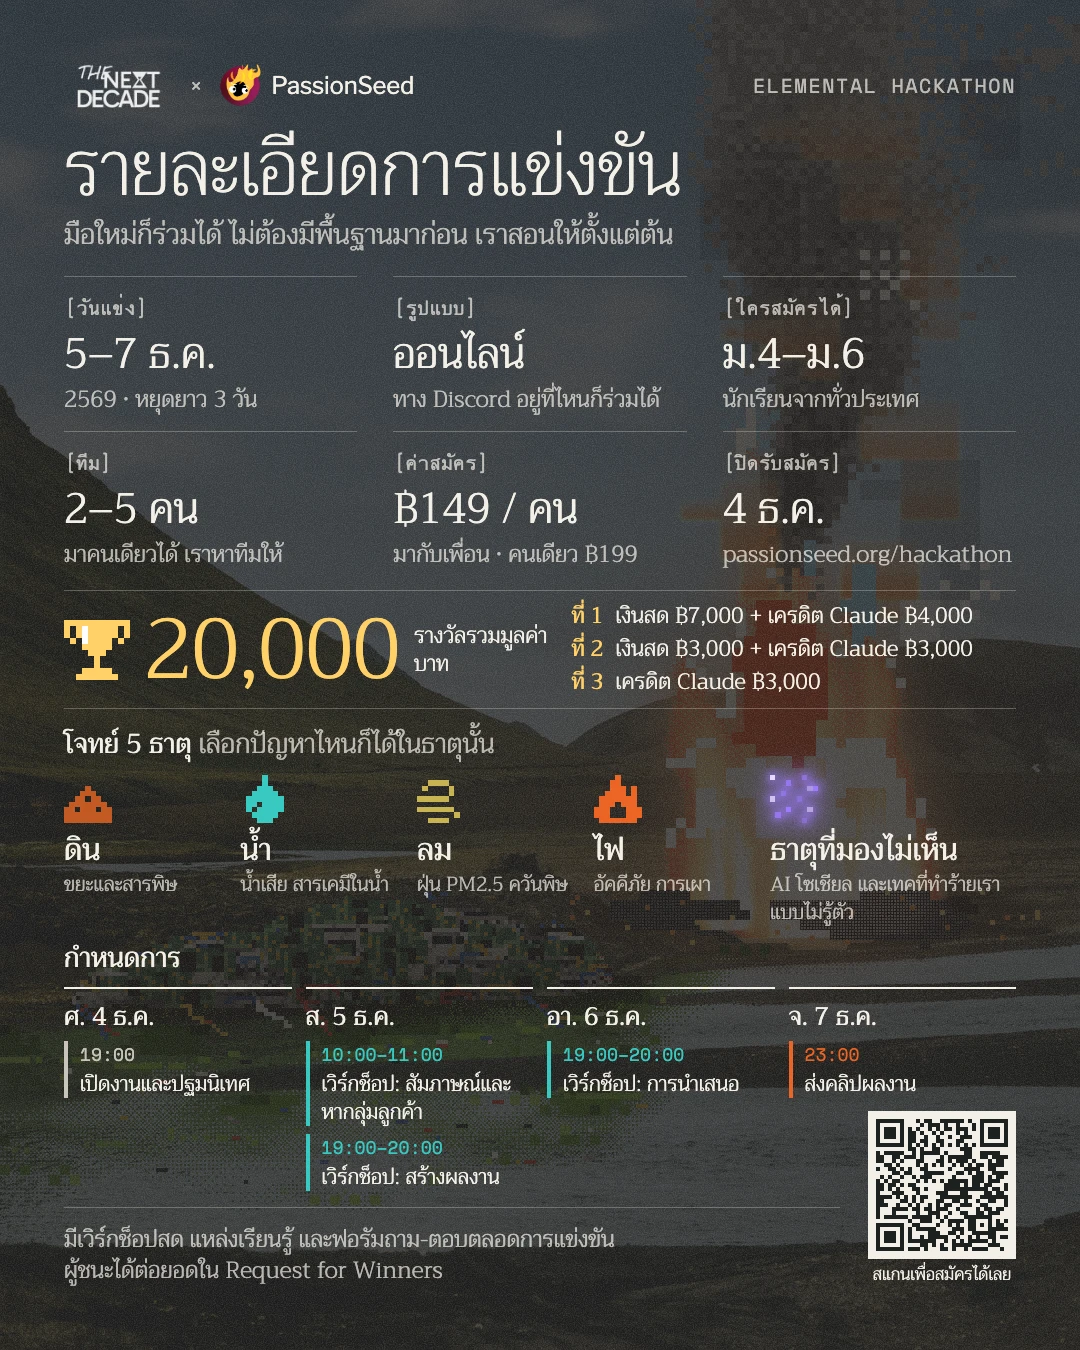
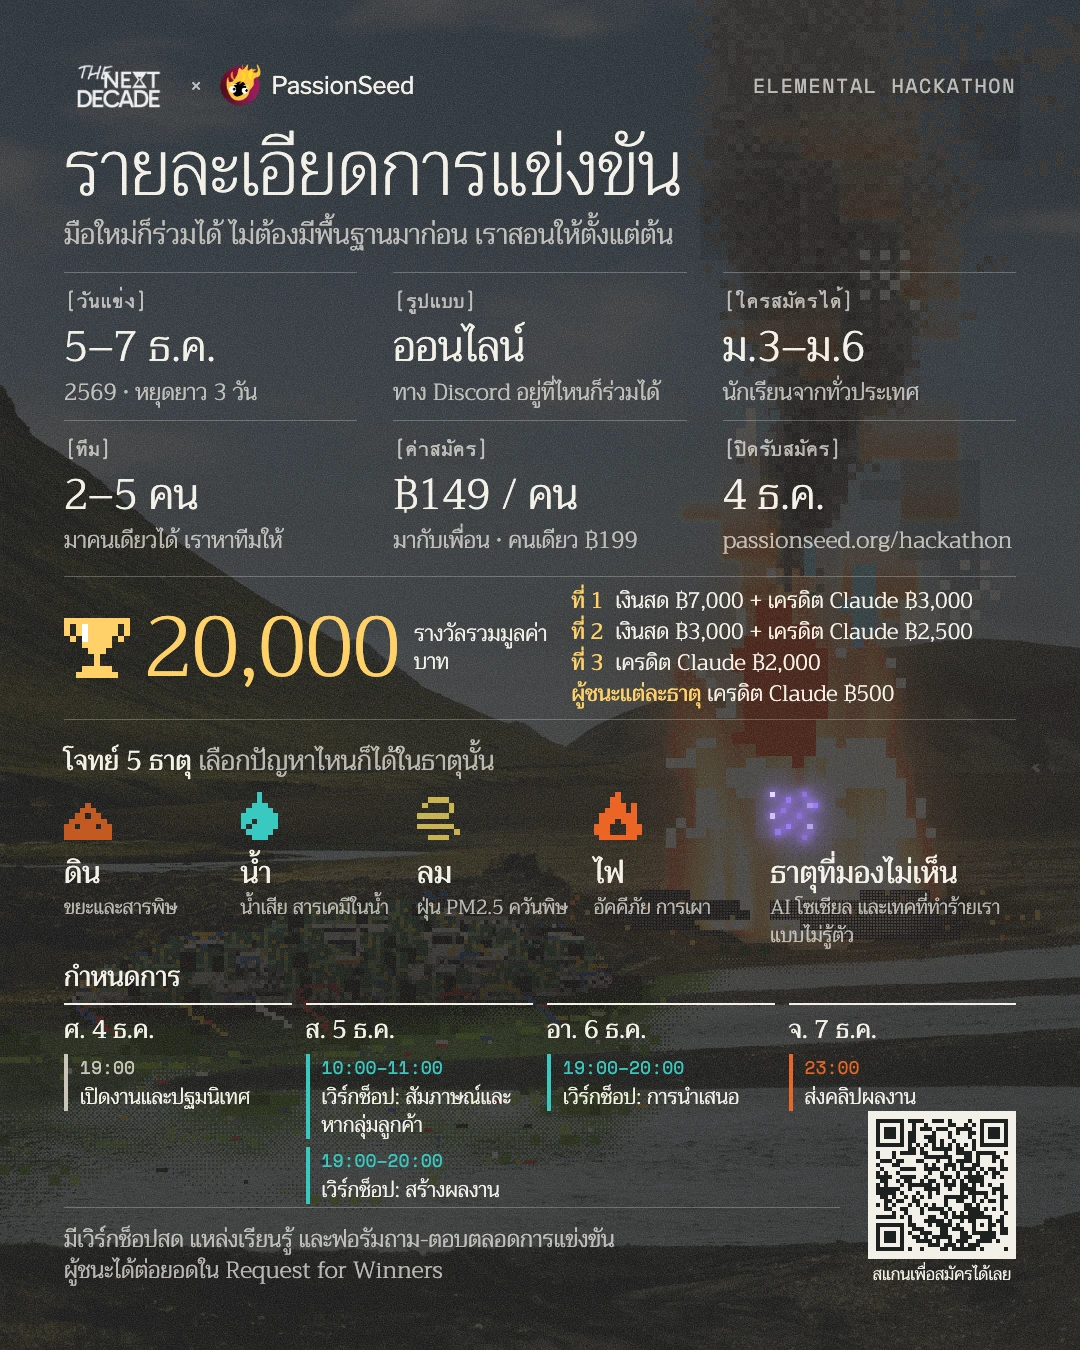
Elemental: ม.3–ม.6 can join, new prize split, and both on the hackathon page (#382)
* Elemental: M.3 to M.6 can join, and the poster says so

Angpao, 2026-11-24: the key poster's facts row gets a tag with a
graduation cap, ม.3–ม.6 เท่านั้น, and M.3 is added to who can join
(it was M.4 to M.6). Slide 2, the sponsor deck and the CSII deck follow.
The exported sheets are re-rendered; their QR code now holds the
permanent link, /hackathon/elemental?src=poster.

* Elemental prizes: less Claude credit for 1st to 3rd, ฿500 for each element's winner

Angpao, 2026-11-24: the Claude credit is 3,000 / 2,500 / 2,000, and the
winner of each track gets 500 of Claude credit. A track is read as one of
the five elements, so the total stays 20,000. Slide 2 and the CSII deck
follow. Slide 2 prints the short link again: the permanent one widened its
column and pushed the schedule under the QR code.

* Slide 2: the element prize sits under ที่ 3

Angpao, 2026-11-24: "put it under ที่ 3 make space for it", and a track is
one of the five elements. The prize rows and the gaps around them are a
few pixels tighter to fit the fourth row.

* Slide 2: the elements row sits 10px lower, away from its heading

Angpao, 2026-11-24: "move this element lower abit". The schedule gives
back 6px so the foot keeps its gap.

* Slide 2: the elements' heading moves down with its row

Angpao, 2026-11-24: "not just element but also the text". The whole
block sits 10px below the prize band's line; heading and row keep their
old gap.

* Slide 2: the water icon lines up with its name
[…]

diff --git a/components/hackathon/poster/elemental/info/ElementalInfoPoster.tsx b/components/hackathon/poster/elemental/info/ElementalInfoPoster.tsx
@@ -36,7 +36,8 @@ const YEAR_TH = Number(ELEMENTAL.startDate.slice(0, 4)) + 543;
 /** 9x9 pixel shapes, one per element. */
 const SHAPES = {
   earth: [".........", ".........", "....#....", "...###...", "..##.##..", ".#######.", "##.###.##", "#########", "#########"],
-  water: ["....#....", "....#....", "...###...", "..#####..", ".#######.", ".##.####.", ".#.#####.", "..#####..", "...###..."],
+  // One column left of centre: flush with the left edge like the others, so it lines up with its name (Angpao, 2026-11-24: "why water position look off").
+  water: ["...#.....", "...#.....", "..###....", ".#####...", "#######..", "##.####..", "#.#####..", ".#####...", "..###...."],
   air: [".........", "..####...", ".#....#..", "......#..", "######...", ".........", "#######..", ".......#.", "..####..."],
   fire: ["....#....", "...##....", "...###.#.", "..####.#.", ".#######.", ".###.###.", "###...###", "###...###", ".#######."],
   aether: ["#.....#..", "...#.....", ".......##", "..#......", "#....#...", ".........", "...#...#.", ".#.......", "......#.."],
@@ -114,10 +115,17 @@ function Tag({ children }: { children: ReactNode }) {
   return <p style={{ margin: 0, fontFamily: EL_FONT.mono, fontSize: 20, color: EL.creamSoft }}>[{children}]</p>;
 }
 
+/**
+ * The link as printed on the slide: the short one, which redirects to the
+ * permanent link. The permanent link is too long for its column: it widens
+ * the column, the other facts wrap, and the schedule runs under the QR code.
+ */
+const SHORT_URL = ELEMENTAL.url.replace(/\/elemental$/, "");
+
 /** One fact: a tag, the big value, one quiet line under it. */
 function Fact({ tag, big, below }: { tag: string; big: ReactNode; below: ReactNode }) {
   return (
-    <div style={{ borderTop: `1px solid rgba(243,239,230,0.28)`, paddingTop: 16 }}>
+    <div style={{ borderTop: `1px solid rgba(243,239,230,0.28)`, paddingTop: 13 }}>
       <Tag>{tag}</Tag>
       <p style={{ margin: "6px 0 0", fontFamily: EL_FONT.display, fontWeight: 300, fontSize: 42, lineHeight: "50px" }}>{big}</p>
       <p style={{ margin: "4px 0 0", fontFamily: EL_FONT.display, fontWeight: 300, fontSize: 23, lineHeight: "32px", color: EL.creamSoft }}>{below}</p>
@@ -170,13 +178,13 @@ export function ElementalInfoPoster({ id = "elemental-info" }: { id?: string }) 
         </p>
 
         {/* Facts, 3 x 2 */}
-        <div style={{ marginTop: 22, display: "grid", gridTemplateColumns: "repeat(3, 1fr)", columnGap: 36, rowGap: 16 }}>
+        <div style={{ marginTop: 18, display: "grid", gridTemplateColumns: "repeat(3, 1fr)", columnGap: 36, rowGap: 12 }}>
           <Fact tag="วันแข่ง" big={thaiDayRange()} below={`${YEAR_TH} · หยุดยาว ${ELEMENTAL.days} วัน`} />
           <Fact tag="รูปแบบ" big="ออนไลน์" below={`${ELEMENTAL.venueTh.replace("ออนไลน์", "").trim()} อยู่ที่ไหนก็ร่วมได้`} />
           <Fact tag="ใครสมัครได้" big={ELEMENTAL.gradesTh} below="นักเรียนจากทั่วประเทศ" />
           <Fact tag="ทีม" big={`${ELEMENTAL.teamMin}–${ELEMENTAL.teamMax} คน`} below="มาคนเดียวได้ เราหาทีมให้" />
           <Fact tag="ค่าสมัคร" big={`฿${ELEMENTAL.groupPriceBaht} / คน`} below={`มากับเพื่อน · คนเดียว ฿${ELEMENTAL.priceBaht}`} />
-          <Fact tag="ปิดรับสมัคร" big={formatThaiDate(ELEMENTAL.registrationClosesOn, false)} below={ELEMENTAL.url} />
+          <Fact tag="ปิดรับสมัคร" big={formatThaiDate(ELEMENTAL.registrationClosesOn, false)} below={SHORT_URL} />
         </div>
 
         {/* The prize, as on slide 1 (trophy, the number in yellow), then who gets what. */}
@@ -190,18 +198,22 @@ export function ElementalInfoPoster({ id = "elemental-info" }: { id?: string }) 
               บาท
             </span>
           </div>
-          <div style={{ flex: 1, display: "grid", gridTemplateColumns: "auto 1fr", columnGap: 12, rowGap: 2, fontFamily: EL_FONT.display, fontWeight: 300, fontSize: 22, lineHeight: "31px" }}>
+          <div style={{ flex: 1, display: "grid", gridTemplateColumns: "auto 1fr", columnGap: 12, rowGap: 2, fontFamily: EL_FONT.display, fontWeight: 300, fontSize: 22, lineHeight: "29px" }}>
             {ELEMENTAL.prizes.map((p) => (
               <Fragment key={p.place}>
                 <span style={{ fontWeight: 400, color: HIGHLIGHT, whiteSpace: "nowrap" }}>ที่ {p.place}</span>
                 <span style={{ whiteSpace: "nowrap" }}>{[p.cashBaht ? `เงินสด ${baht(p.cashBaht)}` : null, `เครดิต Claude ${baht(p.creditBaht)}`].filter(Boolean).join(" + ")}</span>
               </Fragment>
             ))}
+            {/* The winner of each element, under "ที่ 3" (Angpao, 2026-11-24: "winner in each track get 500 bath claude credit", a track being an element; "put it under ที่ 3 make space for it"). */}
+            <span style={{ gridColumn: "1 / -1", whiteSpace: "nowrap" }}>
+              <span style={{ fontWeight: 400, color: HIGHLIGHT }}>ผู้ชนะแต่ละธาตุ</span> เครดิต Claude {baht(ELEMENTAL.elementPrizeCreditBaht)}
+            </span>
           </div>
         </div>
 
-        {/* The five elements */}
-        <div style={{ marginTop: 18 }}>
+        {/* The five elements. The whole block, heading and all, sits 10px lower than at first (Angpao, 2026-11-24: "move this element lower abit", "not just element but also the text"). */}
+        <div style={{ marginTop: 24 }}>
           <Head>
             โจทย์ 5 ธาตุ <span style={{ fontWeight: 300, color: EL.creamSoft }}>เลือกปัญหาไหนก็ได้ในธาตุนั้น</span>
           </Head>
@@ -209,7 +221,8 @@ export function ElementalInfoPoster({ id = "elemental-info" }: { id?: string }) 
             {ELEMENTS.map(({ key, color, line }) => (
               <div key={key}>
                 {key === "aether" ? <AetherPixels rows={SHAPES[key]} size={48} id={`${id}-aether`} /> : <Pixels rows={SHAPES[key]} color={color} size={48} />}
-                <p style={{ margin: "8px 0 0", fontFamily: EL_FONT.display, fontWeight: 400, fontSize: 30, lineHeight: "38px", whiteSpace: "nowrap" }}>{el(key)?.th}</p>
+                {/* The name sits 14px under its icon, 6px more than at first (Angpao, 2026-11-24: "move the text lower abit"). */}
+                <p style={{ margin: "14px 0 0", fontFamily: EL_FONT.display, fontWeight: 400, fontSize: 30, lineHeight: "38px", whiteSpace: "nowrap" }}>{el(key)?.th}</p>
                 <p style={{ margin: "2px 0 0", fontFamily: EL_FONT.display, fontWeight: 300, fontSize: 20, lineHeight: "28px", color: EL.creamSoft }}>{line}</p>
               </div>
             ))}
@@ -217,11 +230,11 @@ export function ElementalInfoPoster({ id = "elemental-info" }: { id?: string }) 
         </div>
 
         {/* Schedule */}
-        <div style={{ marginTop: 14 }}>
+        <div style={{ marginTop: 10 }}>
           <Head>กำหนดการ</Head>
-          <div style={{ marginTop: 12, display: "grid", gridTemplateColumns: `repeat(${days.length}, 1fr)`, columnGap: 14 }}>
+          <div style={{ marginTop: 9, display: "grid", gridTemplateColumns: `repeat(${days.length}, 1fr)`, columnGap: 14 }}>
             {days.map((d) => (
-              <div key={d} style={{ borderTop: `2px solid ${EL.cream}`, paddingTop: 12 }}>
+              <div key={d} style={{ borderTop: `2px solid ${EL.cream}`, paddingTop: 9 }}>
                 <p style={{ margin: 0, fontFamily: EL_FONT.display, fontWeight: 400, fontSize: 25, lineHeight: "32px" }}>{formatThaiDate(d)}</p>
                 {ELEMENTAL.schedule
                   .filter((s) => s.date === d)

diff --git a/components/hackathon/poster/elemental/ElementalKeyPoster.tsx b/components/hackathon/poster/elemental/ElementalKeyPoster.tsx
@@ -291,6 +291,8 @@ const ICON = {
   prize: ["#########", "#.#####.#", ".#.###.#.", "...###...", "....#....", "....#....", "..#####..", ".#######.", "........."],
   friends: [".##...##.", "####.####", ".##...##.", ".........", "###...###", "####.####", "####.####", ".........", "........."],
   workshop: ["#########", "#.......#", "#.##....#", "#....##.#", "#.###...#", "#.......#", "#########", "...#.#...", "..#...#.."],
+  /** A graduation cap with its tassel: who the hackathon is for. */
+  school: ["....#....", "...###...", ".#######.", "#########", ".#######.", "#..###...", "#.#...#..", "#..###...", "........."],
 } as const;
 
 /** One fact in the bottom row: an icon and a few words, all the same size. */
@@ -404,6 +406,8 @@ function RegisterQrArt({ cell, fire = false, label = true }: { cell: number; fir
 const LINE = ["งานแข่งหาทางออกให้ธรรมชาติ", "ก่อนธรรมชาติจะให้เราออก"] as const;
 /** A question, then its answer (Angpao, 2026-11-23: "add ? to มือใหม่ไม่เคยแข่ง"). */
 const BEGINNER = ["มือใหม่ไม่เคยแข่ง?", "มี workshop สอน"] as const;
+/** Who it is for, as a tag in the facts row (Angpao, 2026-11-24: "add tag for มัธยมเท่านั้น", then "m3-m6 เท่านั้น"). */
+const WHO = `${ELEMENTAL.gradesTh} เท่านั้น`;
 
 export type BottomDesign = "stack" | "badge" | "number" | "scan" | "table";
 
@@ -593,7 +597,7 @@ function BottomBlock({ design, label = "tag", rule = true, side = "facts", troph
  * trophy, a plain sign-up QR code at the bottom right, and the line under
  * them. The other values are the layouts tried on the way there.
  */
-export function ElementalKeyPoster({ id = "elemental-key", sky = "grey", glyphs = true, bottom = "number", label = "beside", rule = false, qr = "bottom", facts = "top", qrStyle = "art", trophy = "solid", prizeWeight = 200 }: { id?: string; sky?: keyof typeof PLATES; glyphs?: boolean; bottom?: BottomDesign; label?: PrizeLabel; rule?: boolean; qr?: false | "left" | "right" | "bottom"; facts?: "bottom" | "top"; trophy?: TrophyDesign; prizeWeight?: number; qrStyle?: "art" | "plain" | "glass" | "scan" | "fire" }) {
+export function ElementalKeyPoster({ id = "elemental-key", sky = "grey", glyphs = true, bottom = "number", label = "beside", rule = false, qr = "bottom", facts = "top", qrStyle = "art", trophy = "solid", prizeWeight = 200, who = WHO }: { id?: string; who?: string; sky?: keyof typeof PLATES; glyphs?: boolean; bottom?: BottomDesign; label?: PrizeLabel; rule?: boolean; qr?: false | "left" | "right" | "bottom"; facts?: "bottom" | "top"; trophy?: TrophyDesign; prizeWeight?: number; qrStyle?: "art" | "plain" | "glass" | "scan" | "fire" }) {
   return (
     <div id={id} className={`${trirong.variable} relative overflow-hidden`} style={{ width: W, height: H, backgroundColor: "#2a2b26" }}>
       {/* eslint-disable-next-line @next/next/no-img-element */}
@@ -722,6 +726,7 @@ export function ElementalKeyPoster({ id = "elemental-key", sky = "grey", glyphs 
             <Fact icon="online" color={EL.ink}>ออนไลน์</Fact>
             <Fact icon="friends" color={EL.ink}>{`มากับเพื่อน ฿${ELEMENTAL.groupPriceBaht} ต่อคน`}</Fact>
             <Fact icon="workshop" color={EL.ink}>{`${BEGINNER[0]} ${BEGINNER[1]}`}</Fact>
+            <Fact icon="school" color={EL.ink}>{who}</Fact>
           </div>
         ) : null}
       </div>

diff --git a/components/hackathon/elemental/csii/CsiiDeck.tsx b/components/hackathon/elemental/csii/CsiiDeck.tsx
@@ -16,7 +16,7 @@ import { Body, DARK, H2, LINE_DARK, LINE_LIGHT, PRINT_CSS, Row, Section, SKY, St
  * Source: passionseed/company-brain on main, hackathon-csii-proposal.md,
  * content confirmed by Big on 2026-11-22, and the decisions behind it in
  * decisions/log.md (PassionSeed pays CSII's extra staff charge for opening
- * BAScii on 5–7 December and provides the food; M.4 to M.6; onsite and online).
+ * BAScii on 5–7 December and provides the food; M.3 to M.6; onsite and online).
  * PassionSeed's past work: the same sources as the sponsor deck. Where the
  * proposal says "to agree with CSII", so does this deck: nothing is filled in
  * that nobody has told us.
@@ -46,12 +46,8 @@ const WHY: [IconName, string, string][] = [
   ["sprout", "Little load, little risk", "PassionSeed covers the staff charge and the food, and runs sign-ups, workshops, judging and prizes. If the room doesn't work out, the event still runs online."],
 ];
 
-/** Prizes (Big, 2026-11-22, in the proposal). Cash and Claude credit, in baht. */
-const PRIZES: [string, number, number][] = [
-  ["1st", 7000, 4000],
-  ["2nd", 3000, 3000],
-  ["3rd", 0, 3000],
-];
+/** Prizes (Big, 2026-11-22, in the proposal; the credit changed by Angpao, 2026-11-24). Cash and Claude credit, in baht. */
+const PRIZES: [string, number, number][] = ELEMENTAL.prizes.map((p): [string, number, number] => [["1st", "2nd", "3rd"][p.place - 1], p.cashBaht, p.creditBaht]);
 const PRIZE_TOP = Math.max(...PRIZES.map(([, c, k]) => c + k));
 const baht = (n: number) => `฿${n.toLocaleString("en-US")}`;
 
@@ -181,7 +177,7 @@ export function CsiiDeck() {
               [
                 ["When", "5–7 Dec 2026", "Long weekend"],
                 ["Where", "BAScii", "+ online on Discord"],
-                ["Who", `350+ students`, "M.4 to M.6"],
+                ["Who", `350+ students`, "M.3 to M.6"],
                 ["Cost to CSII", "฿0", "We pay staff and food"],
               ] as const
             ).map(([label, big, small]) => (
@@ -295,7 +291,7 @@ export function CsiiDeck() {
           <div className="grid grid-cols-2 gap-x-8 gap-y-6">
             <Stat big="350+" label="participants (target)" />
             <Stat big="800" label="joined the 1st edition of The Next Decade (2026)" />
-            <Stat big={`${ELEMENTAL.teamMin}–${ELEMENTAL.teamMax}`} label="people per team, M.4 to M.6, from across Thailand" />
+            <Stat big={`${ELEMENTAL.teamMin}–${ELEMENTAL.teamMax}`} label="people per team, M.3 to M.6, from across Thailand" />
             <Stat big={baht(ELEMENTAL.prizeTotalBaht)} label="in prizes, cash and Claude credit" />
           </div>
           <div style={{ fontFamily: EL_FONT.display }}>
@@ -325,6 +321,9 @@ export function CsiiDeck() {
               </span>
               <span>Total {prizeTotal()} baht</span>
             </div>
+            <p className="m-0 mt-3 text-[14px]" style={{ color: CREAM_SOFT }}>
+              Plus {baht(ELEMENTAL.elementPrizeCreditBaht)} of Claude credit for the winner of each of the five elements.
+            </p>
             <p className="m-0 mt-8 text-[16px] leading-[1.65]" style={{ fontWeight: 300, color: CREAM_SOFT }}>
               Every team hands in a video by Monday 7 December, 23:00, judged on four things: does it work, evidence from real people, understanding of the problem, and the pitch.
             </p>

diff --git a/components/hackathon/elemental/ElementalExperience.tsx b/components/hackathon/elemental/ElementalExperience.tsx
@@ -6,7 +6,7 @@ import Link from "next/link";
 import { motion, useReducedMotion, useTransform } from "framer-motion";
 
 import { BACKGROUND, EL, EL_FONT } from "@/components/hackathon/poster/elemental/brand";
-import { ELEMENTAL } from "@/components/hackathon/poster/elemental/facts";
+import { ELEMENTAL, prizeTotal } from "@/components/hackathon/poster/elemental/facts";
 
 import { BeginnerJourneySection } from "./BeginnerJourneySection";
 import styles from "./elemental-cinema.module.css";
@@ -345,6 +345,47 @@ function ElementalExperienceInner({
             </Link>{" "}
             ทั้งหมด ให้ผลงานที่ดีที่สุดได้ไปต่อจนเป็นธุรกิจจริง
           </p>
+
+          {/*
+            Who can join and the prizes (Angpao, 2026-11-24: "update hackathon
+            info include participant education level and also prize"). The
+            same facts as Instagram slide 2, all from facts.ts.
+          */}
+          <div className="mt-12 grid grid-cols-1 border-y border-[#1d211f]/20 md:grid-cols-[1fr_1.5fr]" id="who-and-prizes">
+            <div className="py-8 md:pr-10">
+              <p className="text-sm" style={{ fontFamily: EL_FONT.mono, color: EL.inkSoft }}>
+                [ใครสมัครได้]
+              </p>
+              <p className="mt-2 text-5xl sm:text-6xl" style={{ fontFamily: EL_FONT.display, fontWeight: 200, lineHeight: 1.05 }}>
+                {ELEMENTAL.gradesTh}
+              </p>
+              <p className="mt-3 text-base" style={{ fontFamily: "var(--font-bai-jamjuree), sans-serif", color: EL.inkSoft }}>
+                นักเรียนจากทั่วประเทศ ทีมละ {ELEMENTAL.teamMin}–{ELEMENTAL.teamMax} คน
+              </p>
+            </div>
+            <div className="border-t border-[#1d211f]/20 py-8 md:border-l md:border-t-0 md:pl-10">
+              <p className="text-sm" style={{ fontFamily: EL_FONT.mono, color: EL.inkSoft }}>
+                [รางวัลรวมมูลค่า {prizeTotal()} บาท]
+              </p>
+              <dl
+                className="mt-3 grid grid-cols-[auto_1fr] gap-x-5 gap-y-2 text-base sm:text-lg"
+                style={{ fontFamily: "var(--font-bai-jamjuree), sans-serif" }}
+              >
+                {ELEMENTAL.prizes.map((p) => (
+                  <div key={p.place} className="contents">
+                    <dt className="font-semibold">ที่ {p.place}</dt>
+                    <dd style={{ color: EL.inkSoft }}>
+                      {[p.cashBaht ? `เงินสด ฿${p.cashBaht.toLocaleString("en-US")}` : null, `เครดิต Claude ฿${p.creditBaht.toLocaleString("en-US")}`]
+                        .filter(Boolean)
+                        .join(" + ")}
+                    </dd>
+                  </div>
+                ))}
+                <dt className="font-semibold">ผู้ชนะแต่ละธาตุ</dt>
+                <dd style={{ color: EL.inkSoft }}>เครดิต Claude ฿{ELEMENTAL.elementPrizeCreditBaht.toLocaleString("en-US")}</dd>
+              </dl>
+            </div>
+          </div>
 
           {/* 3-step editorial list */}
           <ol className="mt-14 grid gap-8 sm:grid-cols-3">

diff --git a/components/hackathon/poster/elemental/facts.ts b/components/hackathon/poster/elemental/facts.ts
@@ -13,9 +13,12 @@ import { formatThaiDate } from "@/lib/content/shift-cohort";
  *   media and the harms of tech we don't notice (Big, 2026-11-21). It
  *   replaces ธาตุที่ 5 and อีเธอร์.
  * - Prize total: told by Angpao, 2026-11-19. The three prizes: Angpao,
- *   2026-11-21 (company-brain numbers.md).
- * - Who can join: M.4 to M.6, from anywhere in Thailand (Big, 2026-11-22;
- *   company-brain decisions/log.md).
+ *   2026-11-21 (company-brain numbers.md). Changed by Angpao, 2026-11-24:
+ *   the Claude credit drops to 3,000 / 2,500 / 2,000, and the winner of
+ *   each track gets 500 of Claude credit. A track is one of the five
+ *   elements (confirmed by Angpao the same day), so the total stays 20,000.
+ * - Who can join: M.3 to M.6, from anywhere in Thailand (Angpao, 2026-11-24;
+ *   it replaces M.4 to M.6, Big, 2026-11-22; company-brain decisions/log.md).
  * - Online, on Discord; groups of up to 5 (Bunyasit, 2026-11-20).
  * - Sign-up closes Fri 4 Dec 2026 (Angpao, 2026-11-23; it replaces Thu 3 Dec
  *   in hackathon-ops registration.md); a group is 2 or more people (Big's
@@ -33,14 +36,19 @@ export const ELEMENTAL = {
   priceBaht: 199,
   groupPriceBaht: 149,
   prizeTotalBaht: 20000,
-  /** The three prizes: cash and Claude credit, in baht. They add up to prizeTotalBaht. */
+  /**
+   * The three prizes: cash and Claude credit, in baht. With the five element
+   * prizes below they add up to prizeTotalBaht.
+   */
   prizes: [
-    { place: 1, cashBaht: 7000, creditBaht: 4000 },
-    { place: 2, cashBaht: 3000, creditBaht: 3000 },
-    { place: 3, cashBaht: 0, creditBaht: 3000 },
+    { place: 1, cashBaht: 7000, creditBaht: 3000 },
+    { place: 2, cashBaht: 3000, creditBaht: 2500 },
+    { place: 3, cashBaht: 0, creditBaht: 2000 },
   ],
+  /** Claude credit for the winner of each element ("each track"), in baht. */
+  elementPrizeCreditBaht: 500,
   /** Who can join: school years, from anywhere in Thailand. */
-  gradesTh: "ม.4–ม.6",
+  gradesTh: "ม.3–ม.6",
   theme: "Environmental negligence",
   /** The permanent link. /hackathon redirects here while Elemental is current. */
   url: "passionseed.org/hackathon/elemental",

diff --git a/app/hackathon/elemental/page.tsx b/app/hackathon/elemental/page.tsx
@@ -7,7 +7,7 @@ import { elementalRegistrationOpen, normalizeSource } from "@/lib/hackathon/elem
 import { CANONICAL_ORIGIN } from "@/lib/seo/canonical-origin";
 
 const TITLE = `${ELEMENTAL.edition} Hackathon | ${ELEMENTAL.series}`;
-const DESCRIPTION = `${ELEMENTAL.edition} Hackathon: ดิน น้ำ ลม ไฟ ${thaiDateLine()} รางวัลรวม ${prizeTotal()} บาท สมัครคนเดียว ฿${ELEMENTAL.priceBaht} มากับเพื่อน ฿${ELEMENTAL.groupPriceBaht} ต่อคน`;
+const DESCRIPTION = `${ELEMENTAL.edition} Hackathon: ดิน น้ำ ลม ไฟ ${thaiDateLine()} สำหรับนักเรียน ${ELEMENTAL.gradesTh} รางวัลรวม ${prizeTotal()} บาท สมัครคนเดียว ฿${ELEMENTAL.priceBaht} มากับเพื่อน ฿${ELEMENTAL.groupPriceBaht} ต่อคน`;
 
 export const metadata: Metadata = {
   title: TITLE,

diff --git a/components/hackathon/elemental/sponsor/SponsorDeck.tsx b/components/hackathon/elemental/sponsor/SponsorDeck.tsx
@@ -399,7 +399,7 @@ export function SponsorDeck() {
             {thaiDayRange()} {YEAR_TH} ({ELEMENTAL.days} วัน ช่วงวันหยุดยาว)
           </Row>
           <Row light label="ผู้เข้าร่วม">
-            นักเรียน ม.4–ม.6 ทั่วประเทศ
+            นักเรียน ม.3–ม.6 ทั่วประเทศ
             <Draft />
           </Row>
           <Row light label="รูปแบบ">
